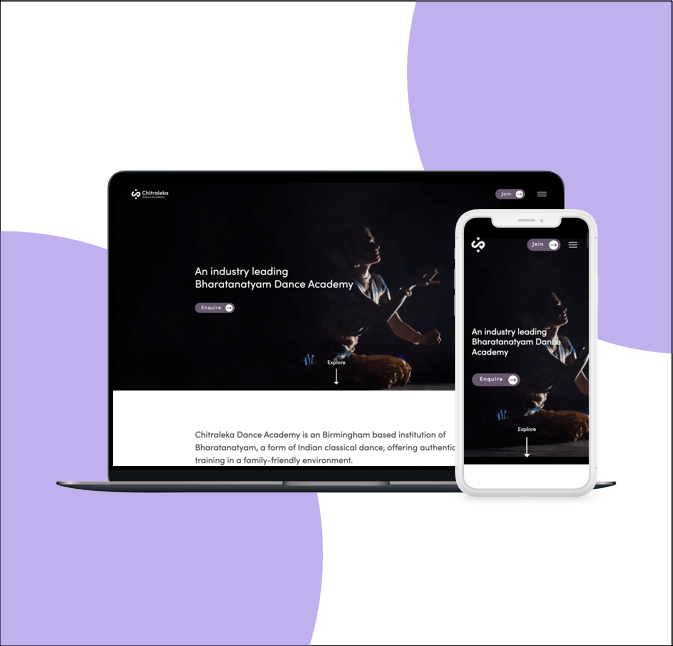
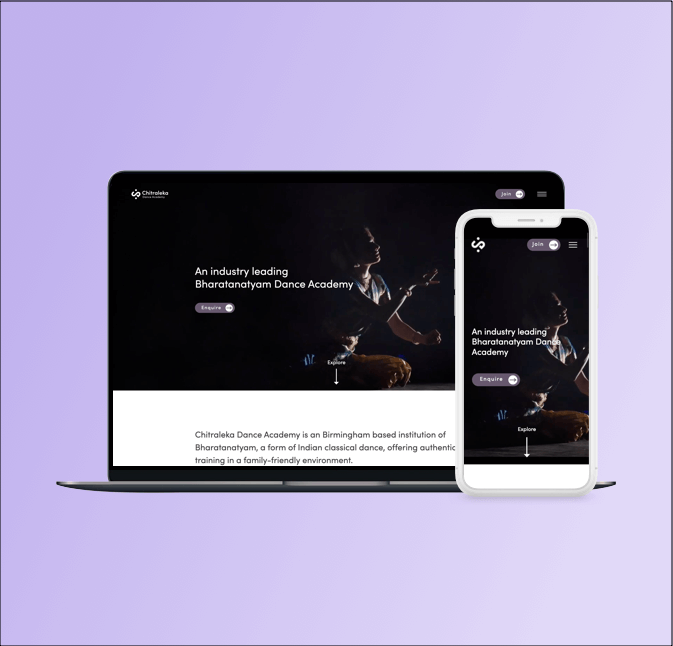
Thumbnails updated

diff --git a/index.html b/index.html
@@ -1,6 +1,6 @@
 <!DOCTYPE html>
 <!--  This site was created in Webflow. http://www.webflow.com  -->
-<!--  Last Published: Mon Aug 03 2020 09:30:35 GMT+0000 (Coordinated Universal Time)  -->
+<!--  Last Published: Mon Aug 03 2020 09:51:18 GMT+0000 (Coordinated Universal Time)  -->
 <html data-wf-page="5f03a5668934bbd5f1058aef" data-wf-site="5f03a5668934bb26b9058aee">
 <head>
   <meta charset="utf-8">
@@ -55,7 +55,7 @@
         <p class="body-large">An end-to-end design for a wedding planner app unlike any other.<br></p>
       </div><a href="wedkit-case-study.html" class="portfolio-button w-button">View Case Study</a></div>
   </div>
-  <div class="container-grid-portfolio-section w-container"><a id="w-node-bafd4c35509a-f1058aef" href="optician-case-study.html" class="link-block-2 w-inline-block"><img src="images/Chitraleka-Portfolio-Thumbnail.png" srcset="images/Chitraleka-Portfolio-Thumbnail-p-500.png 500w, images/Chitraleka-Portfolio-Thumbnail.png 673w" sizes="(max-width: 479px) 93vw, (max-width: 708px) 95vw, (max-width: 767px) 673px, (max-width: 991px) 352px, 430px" alt="" class="gallery-image"></a>
+  <div class="container-grid-portfolio-section w-container"><a id="w-node-bafd4c35509a-f1058aef" href="optician-case-study.html" class="link-block-2 w-inline-block"><img src="images/Chitraleka-Portfolio-Thumbnail.png" alt="" class="gallery-image"></a>
     <div class="portfolio-section-body">
       <div class="portfolio-section-text">
         <h3 class="bold sub-heading">Chitraleka Dance Website and Branding<br></h3>

diff --git a/about.html b/about.html
@@ -1,6 +1,6 @@
 <!DOCTYPE html>
 <!--  This site was created in Webflow. http://www.webflow.com  -->
-<!--  Last Published: Mon Aug 03 2020 09:30:35 GMT+0000 (Coordinated Universal Time)  -->
+<!--  Last Published: Mon Aug 03 2020 09:51:18 GMT+0000 (Coordinated Universal Time)  -->
 <html data-wf-page="5f11d7efee4a89ed9aaead1b" data-wf-site="5f03a5668934bb26b9058aee">
 <head>
   <meta charset="utf-8">

diff --git a/optician-case-study.html b/optician-case-study.html
@@ -1,6 +1,6 @@
 <!DOCTYPE html>
 <!--  This site was created in Webflow. http://www.webflow.com  -->
-<!--  Last Published: Mon Aug 03 2020 09:30:35 GMT+0000 (Coordinated Universal Time)  -->
+<!--  Last Published: Mon Aug 03 2020 09:51:18 GMT+0000 (Coordinated Universal Time)  -->
 <html data-wf-page="5f0460ea7e3d4fe5db7a0eb1" data-wf-site="5f03a5668934bb26b9058aee">
 <head>
   <meta charset="utf-8">

diff --git a/styleguide.html b/styleguide.html
@@ -1,6 +1,6 @@
 <!DOCTYPE html>
 <!--  This site was created in Webflow. http://www.webflow.com  -->
-<!--  Last Published: Mon Aug 03 2020 09:30:35 GMT+0000 (Coordinated Universal Time)  -->
+<!--  Last Published: Mon Aug 03 2020 09:51:18 GMT+0000 (Coordinated Universal Time)  -->
 <html data-wf-page="5f03a78e99bb8b18552f4c89" data-wf-site="5f03a5668934bb26b9058aee">
 <head>
   <meta charset="utf-8">

diff --git a/wedkit-case-study.html b/wedkit-case-study.html
@@ -1,6 +1,6 @@
 <!DOCTYPE html>
 <!--  This site was created in Webflow. http://www.webflow.com  -->
-<!--  Last Published: Mon Aug 03 2020 09:30:35 GMT+0000 (Coordinated Universal Time)  -->
+<!--  Last Published: Mon Aug 03 2020 09:51:18 GMT+0000 (Coordinated Universal Time)  -->
 <html data-wf-page="5f2185cf7eaf485268b9e403" data-wf-site="5f03a5668934bb26b9058aee">
 <head>
   <meta charset="utf-8">
